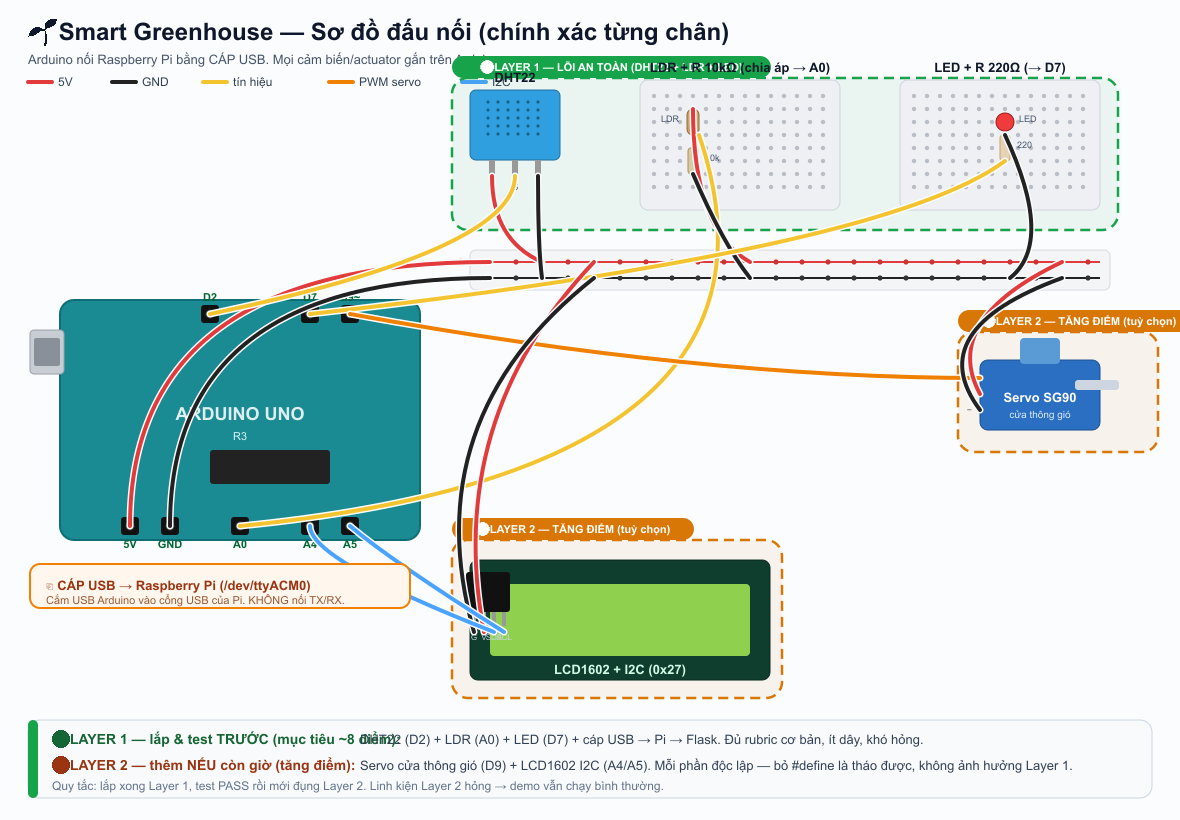
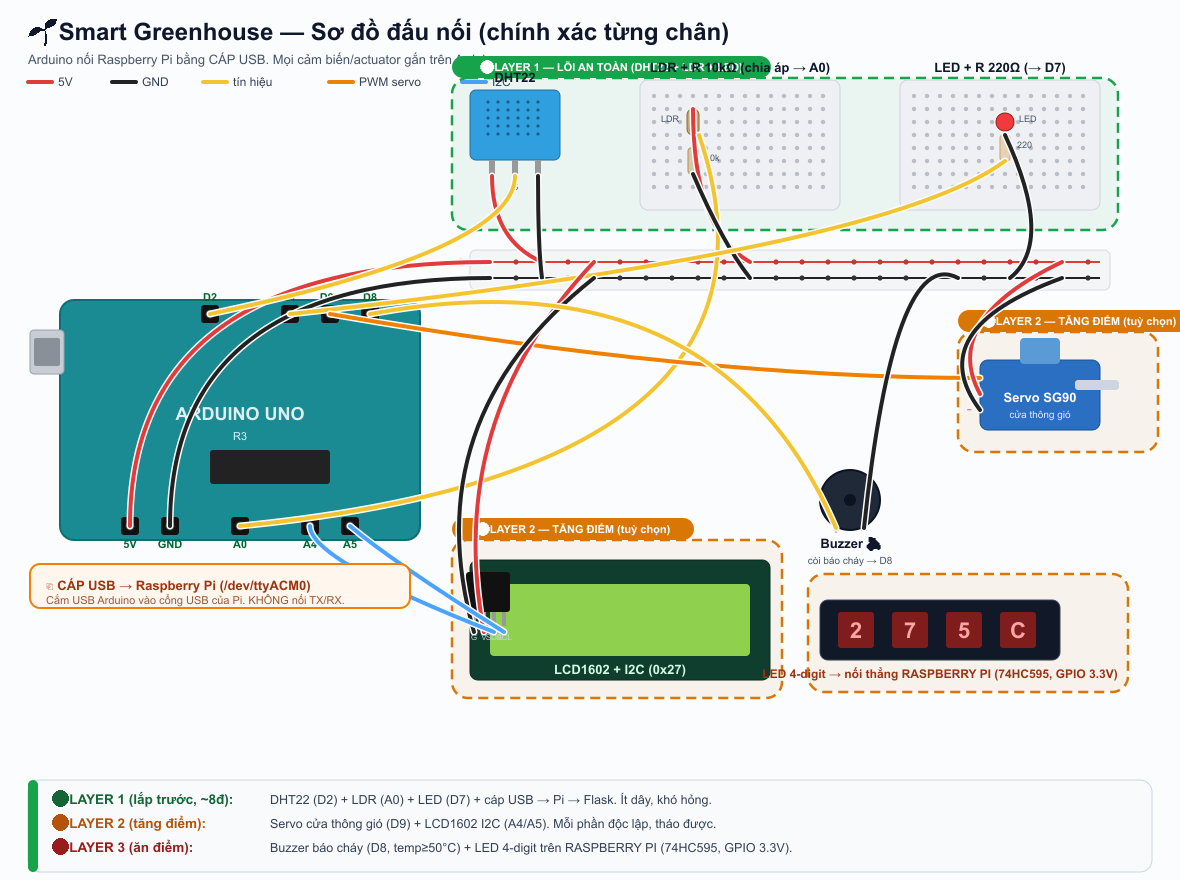
Document Layer 3 everywhere: buzzer+fire+4-digit in breadboard SVG, interactive page, WIRING, BUILD_CHECKLIST, hub + rubric update

diff --git a/docs/index.html b/docs/index.html
@@ -79,6 +79,7 @@
     padding:6px 14px;border-radius:999px;margin:18px 0 12px}
   .l1{background:#10b98122;color:var(--green);border:1px solid #10b98144}
   .l2{background:#fbbf2422;color:var(--amber);border:1px solid #fbbf2444}
+  .l3{background:#dc262622;color:#f87171;border:1px solid #dc262644}
 
   /* run code */
   pre{background:#060a12;border:1px solid var(--stroke);border-radius:12px;padding:16px;overflow-x:auto;
@@ -140,7 +141,8 @@
   <p class="lead">Mô phỏng một nhà kính tự động: cảm biến đo môi trường → tự bật đèn khi tối, mở cửa khi nóng → hiển thị & điều khiển trên dashboard web.</p>
   <div class="grid3">
     <div class="card"><div style="font-size:30px">📡</div><h3 style="margin:8px 0 4px">Thu thập</h3><p style="color:var(--muted);font-size:14px">DHT22 đo nhiệt/ẩm, LDR đo ánh sáng — đọc liên tục mỗi giây.</p></div>
-    <div class="card"><div style="font-size:30px">🤖</div><h3 style="margin:8px 0 4px">Tự động</h3><p style="color:var(--muted);font-size:14px">Tối → bật đèn trồng cây. Nóng → mở cửa thông gió (servo). Có chế độ Auto/Manual.</p></div>
+    <div class="card"><div style="font-size:30px">🤖</div><h3 style="margin:8px 0 4px">Tự động</h3><p style="color:var(--muted);font-size:14px">Tối → bật đèn trồng cây. Nóng → mở cửa thông gió. Có chế độ Auto/Manual.</p></div>
+    <div class="card" style="border-color:#dc262644"><div style="font-size:30px">🔥</div><h3 style="margin:8px 0 4px">Bảo vệ chống cháy</h3><p style="color:var(--muted);font-size:14px">Quá nhiệt (≥50°C) → còi báo động + mở cửa thoát nhiệt + cảnh báo đỏ. Không chỉ giám sát — còn bảo vệ tài sản.</p></div>
     <div class="card"><div style="font-size:30px">📊</div><h3 style="margin:8px 0 4px">Giám sát</h3><p style="color:var(--muted);font-size:14px">Dashboard web: số liệu realtime, biểu đồ lịch sử, điều khiển từ xa, lưu SQLite.</p></div>
   </div>
 </div></section>
@@ -171,6 +173,8 @@
     <div class="comp"><span class="em">💡</span><div><div class="t">LED + R220Ω <span class="pin">→ D7</span></div><div class="d">Đèn trồng cây · chân dài qua trở→D7, ngắn→GND</div></div></div>
     <div class="comp"><span class="em">🪟</span><div><div class="t">Servo SG90 <span class="pin">→ D9</span><span class="opt">TUỲ CHỌN</span></div><div class="d">Cửa thông gió · Đỏ→5V, Cam→D9, Nâu→GND</div></div></div>
     <div class="comp"><span class="em">📟</span><div><div class="t">LCD1602 I2C <span class="pin">→ A4/A5</span><span class="opt">TUỲ CHỌN</span></div><div class="d">Màn local · SDA→A4, SCL→A5, địa chỉ 0x27</div></div></div>
+    <div class="comp"><span class="em">🔊</span><div><div class="t">Buzzer báo cháy <span class="pin">→ D8</span><span class="opt" style="color:#f87171;border-color:#f8717155">LAYER 3</span></div><div class="d">Còi kêu khi temp ≥ 50°C · + → D8, − → GND</div></div></div>
+    <div class="comp"><span class="em">🔢</span><div><div class="t">LED 4-digit <span class="pin">→ Pi GPIO</span><span class="opt" style="color:#f87171;border-color:#f8717155">LAYER 3</span></div><div class="d">Trên Raspberry Pi · 74HC595 BCM 17/27/22 (3.3V)</div></div></div>
     <div class="comp"><span class="em">🔗</span><div><div class="t">Arduino → Pi <span class="pin">CÁP USB</span></div><div class="d">Cắm USB vào Pi, đọc /dev/ttyACM0 · KHÔNG dùng TX/RX</div></div></div>
   </div>
 </div></section>
@@ -194,6 +198,12 @@
     <li><div><div class="t">Servo cửa thông gió → D9</div><div class="pass">Nếu giật/reset → cấp nguồn riêng hoặc bỏ #define USE_SERVO</div></div></li>
     <li><div><div class="t">LCD1602 I2C → A4/A5</div><div class="pass">Màn trắng → vặn contrast / đổi 0x27→0x3F / bỏ #define USE_LCD</div></div></li>
     <li><div><div class="t">Bonus phần mềm (đã có sẵn)</div><div class="pass">Quay demo Auto↔Manual + chỉnh ngưỡng trên web</div></div></li>
+  </ol>
+
+  <div class="layerhead l3">🔴 LAYER 3 — Tính năng "ăn điểm"</div>
+  <ol class="steps">
+    <li><div><div class="t">🔥 Buzzer + chống cháy/quá nhiệt → D8 (Arduino)</div><div class="pass">temp ≥ 50°C → còi kêu + cửa tự mở + dashboard banner đỏ. Demo: hơ bật lửa gần DHT22.</div></div></li>
+    <li><div><div class="t">🔢 LED 4-digit trên Raspberry Pi (74HC595, GPIO 3.3V)</div><div class="pass">Pi tự hiển thị nhiệt độ; cháy → nhấp nháy "FirE". Đúng rubric cột Pi mức 9–10.</div></div></li>
   </ol>
   <p class="lead" style="margin-top:16px">Chi tiết đầy đủ: <a href="https://github.com/bnqtoan/smart-greenhouse-iot/blob/main/docs/BUILD_CHECKLIST.md" style="color:var(--green);font-weight:700">BUILD_CHECKLIST.md →</a></p>
 </div></section>
@@ -228,11 +238,11 @@ python3 app.py</pre>
     <tr><th>Tiêu chí</th><th>Mức 9–10</th><th>Đã đạt</th></tr>
     <tr><td>Arduino</td><td>≥2 cảm biến + LCD + actuator</td><td class="ok">DHT22 + LDR + LCD + LED + Servo ✓</td></tr>
     <tr><td>Giao tiếp</td><td>Serial ổn định</td><td class="ok">USB Serial /dev/ttyACM0 ✓</td></tr>
-    <tr><td>Raspberry Pi</td><td>Flask dashboard + điều khiển</td><td class="ok">✓</td></tr>
+    <tr><td>Raspberry Pi</td><td>Flask + điều khiển + <b>LED 4 digit</b></td><td class="ok">Flask + control + LED 4-digit (Pi) ✓</td></tr>
     <tr><td>Lưu dữ liệu</td><td>SQLite</td><td class="ok">✓</td></tr>
     <tr><td>Dashboard</td><td>hiện tại + lịch sử + chart</td><td class="ok">✓</td></tr>
     <tr><td>Điều khiển GUI</td><td>bắt buộc</td><td class="ok">LED/Vent/Mode/Ngưỡng ✓</td></tr>
-    <tr><td>Bonus</td><td>UI đẹp + chart + sáng tạo</td><td class="ok">+0.75 ✓</td></tr>
+    <tr><td>Bonus</td><td>UI đẹp + chart + sáng tạo</td><td class="ok">+ chống cháy/quá nhiệt 🔥 ✓</td></tr>
   </table>
   </div>
 </div></section>

diff --git a/docs/wiring.html b/docs/wiring.html
@@ -67,6 +67,8 @@
         <g class="node" data-pin="D9"><rect x="160" y="150" width="34" height="20" rx="4" fill="#1e293b"/><text x="177" y="164" text-anchor="middle" fill="#fff" font-size="10" font-weight="700">D9</text></g>
         <!-- D2 -->
         <g class="node" data-pin="D2"><rect x="160" y="180" width="34" height="20" rx="4" fill="#1e293b"/><text x="177" y="194" text-anchor="middle" fill="#fff" font-size="10" font-weight="700">D2</text></g>
+        <!-- D8 -->
+        <g class="node" data-pin="D8"><rect x="160" y="210" width="34" height="20" rx="4" fill="#1e293b"/><text x="177" y="224" text-anchor="middle" fill="#fff" font-size="10" font-weight="700">D8</text></g>
         <!-- 5V -->
         <g class="node" data-pin="5V"><rect x="6" y="250" width="34" height="20" rx="4" fill="#b91c1c"/><text x="23" y="264" text-anchor="middle" fill="#fff" font-size="10" font-weight="700">5V</text></g>
         <!-- GND -->
@@ -84,8 +86,12 @@
         <g class="node" data-comp="led"><rect x="430" y="186" width="180" height="46" rx="8" fill="#ca8a0433" stroke="#eab308"/><text x="520" y="208" text-anchor="middle" fill="#fef9c3" font-size="12" font-weight="700">LED + R220Ω</text><text x="520" y="224" text-anchor="middle" fill="#fde68a" font-size="10">đèn trồng cây → D7</text></g>
         <g class="node" data-comp="servo"><rect x="430" y="244" width="180" height="46" rx="8" fill="#16a34a33" stroke="#22c55e"/><text x="520" y="266" text-anchor="middle" fill="#dcfce7" font-size="12" font-weight="700">Servo SG90 ⚙</text><text x="520" y="282" text-anchor="middle" fill="#86efac" font-size="10">cửa thông gió → D9</text></g>
         <g class="node" data-comp="lcd"><rect x="430" y="302" width="180" height="46" rx="8" fill="#0284c733" stroke="#38bdf8"/><text x="520" y="324" text-anchor="middle" fill="#e0f2fe" font-size="12" font-weight="700">LCD1602 I2C ⚙</text><text x="520" y="340" text-anchor="middle" fill="#7dd3fc" font-size="10">SDA→A4, SCL→A5</text></g>
+        <g class="node" data-comp="buzzer"><rect x="430" y="360" width="180" height="46" rx="8" fill="#dc262633" stroke="#f87171"/><text x="520" y="382" text-anchor="middle" fill="#fee2e2" font-size="12" font-weight="700">Buzzer 🔊 🔥</text><text x="520" y="398" text-anchor="middle" fill="#fca5a5" font-size="10">còi báo cháy → D8</text></g>
 
         <!-- WIRES (data-comp groups them) -->
+        <!-- Buzzer: + -> D8, - -> GND -->
+        <path class="wire buzzer" d="M430 376 C 300 376, 240 220, 194 220" stroke="#eab308" fill="none" stroke-width="3"/>
+        <path class="wire buzzer" d="M430 392 C 300 392, 120 288, 40 288" stroke="#0f172a" fill="none" stroke-width="3"/>
         <!-- DHT -->
         <path class="wire dht" d="M430 84 C 300 84, 120 260, 40 260" stroke="#ef4444" fill="none" stroke-width="3"/>
         <path class="wire dht" d="M430 92 C 320 110, 240 190, 194 190" stroke="#eab308" fill="none" stroke-width="3"/>
@@ -128,6 +134,8 @@
       <button class="comp-btn" data-comp="led"><span class="em">💡</span><span><span class="t">LED</span><br><span class="d">đèn trồng cây</span></span></button>
       <button class="comp-btn" data-comp="servo"><span class="em">🪟</span><span><span class="t">Servo SG90</span><br><span class="d">cửa thông gió</span></span><span class="opt-badge">TUỲ CHỌN</span></button>
       <button class="comp-btn" data-comp="lcd"><span class="em">📟</span><span><span class="t">LCD1602 I2C</span><br><span class="d">màn hình local</span></span><span class="opt-badge">TUỲ CHỌN</span></button>
+      <button class="comp-btn" data-comp="buzzer"><span class="em">🔊</span><span><span class="t">Buzzer báo cháy</span><br><span class="d">còi cảnh báo cháy/quá nhiệt</span></span><span class="opt-badge" style="color:#f87171;border-color:#f8717155">LAYER 3</span></button>
+      <button class="comp-btn" data-comp="seg"><span class="em">🔢</span><span><span class="t">LED 4-digit</span><br><span class="d">trên Raspberry Pi (không qua Arduino)</span></span><span class="opt-badge" style="color:#f87171;border-color:#f8717155">LAYER 3</span></button>
 
       <div class="detail" id="detail">
         <h3>Chọn một linh kiện</h3>
@@ -143,7 +151,9 @@ const DATA = {
   ldr:  {name:"LDR + R10k", wires:[["#ef4444","5V → đầu LDR"],["#eab308","Điểm giữa → A0"],["#0f172a","R10k → GND"]], note:"Cầu chia áp: 5V—[LDR]—•(A0)—[10kΩ]—GND. Che/rọi đèn để chỉnh ngưỡng (mặc định 400)."},
   led:  {name:"LED + R220Ω", wires:[["#eab308","Chân dài (+) qua trở 220Ω → D7"],["#0f172a","Chân ngắn (–) → GND"]], note:"Gõ LED:1 / LED:0 trong Serial Monitor để test bật/tắt."},
   servo:{name:"Servo SG90 (tuỳ chọn)", wires:[["#ef4444","Đỏ → 5V"],["#f97316","Cam → D9 (PWM)"],["#0f172a","Nâu → GND"]], note:"Nếu giật/reset Arduino: cấp nguồn riêng cho servo, hoặc bỏ #define USE_SERVO."},
-  lcd:  {name:"LCD1602 I2C (tuỳ chọn)", wires:[["#ef4444","VCC → 5V"],["#0f172a","GND → GND"],["#a78bfa","SDA → A4"],["#a78bfa","SCL → A5"]], note:"Màn trắng không chữ → vặn contrast / đổi địa chỉ 0x27→0x3F / bỏ #define USE_LCD."}
+  lcd:  {name:"LCD1602 I2C (tuỳ chọn)", wires:[["#ef4444","VCC → 5V"],["#0f172a","GND → GND"],["#a78bfa","SDA → A4"],["#a78bfa","SCL → A5"]], note:"Màn trắng không chữ → vặn contrast / đổi địa chỉ 0x27→0x3F / bỏ #define USE_LCD."},
+  buzzer:{name:"Buzzer báo cháy (Layer 3)", wires:[["#eab308","+ → D8"],["#0f172a","− → GND"]], note:"Active buzzer. Code tự kêu khi temp ≥ 50°C (báo cháy/quá nhiệt) + mở cửa thông gió. Test: hơ bật lửa gần DHT22."},
+  seg:  {name:"LED 4-digit (trên Raspberry Pi)", wires:[["#eab308","DS → GPIO17"],["#eab308","STCP → GPIO27"],["#eab308","SHCP → GPIO22"],["#ef4444","VCC → 3.3V"],["#0f172a","GND → GND"]], note:"⚠️ Lắp trên breadboard riêng nối THẲNG vào Raspberry Pi (không qua Arduino). 74HC595 cấp 3.3V — không hạ áp. Pi tự đẩy nhiệt độ ra LED; cháy thì nhấp nháy 'FirE'. Đây là điểm rubric cột Pi mức 9–10."}
 };
 const svg = document.getElementById('svg');
 const detail = document.getElementById('detail');

diff --git a/docs/gen_breadboard.py b/docs/gen_breadboard.py
@@ -17,7 +17,7 @@ Pin map (matches greenhouse.ino):
 Run:  python3 gen_breadboard.py  ->  writes wiring-breadboard.svg
 """
 
-W, H = 1180, 820
+W, H = 1180, 880
 parts = []
 def add(s): parts.append(s)
 
@@ -105,8 +105,9 @@ def header_pin(x,y,label,side="top"):
         add(f'<text x="{x}" y="{y+22}" text-anchor="middle" font-size="11" font-weight="700" fill="#063">{label}</text>')
 
 # digital pins along top edge
-D7  = (AX+250, top_y); header_pin(*D7,"D7")
-D9  = (AX+290, top_y); header_pin(*D9,"D9~")
+D7  = (AX+230, top_y); header_pin(*D7,"D7")
+D9  = (AX+270, top_y); header_pin(*D9,"D9~")
+D8  = (AX+310, top_y); header_pin(*D8,"D8")
 D2  = (AX+150, top_y); header_pin(*D2,"D2")
 # power+analog along bottom edge
 bot_y = AY+AH-14
@@ -251,6 +252,32 @@ wire(lcd_sda[0], lcd_sda[1]+14, A4[0], A4[1], BLU, mid=(A4[0], 560))
 wire(lcd_scl[0], lcd_scl[1]+14, A5[0], A5[1], BLU, mid=(A5[0]+40, 560))
 
 # =========================================================
+#  COMPONENT: Buzzer (Layer 3 — fire alarm)  on Arduino D8
+# =========================================================
+BZX, BZY = 820, 470
+add(f'<circle cx="{BZX+30}" cy="{BZY+30}" r="30" fill="#1f2937" stroke="#0b1220" stroke-width="2"/>')
+add(f'<circle cx="{BZX+30}" cy="{BZY+30}" r="6" fill="#0b1220"/>')
+add(f'<text x="{BZX+30}" y="{BZY+78}" text-anchor="middle" font-size="13" font-weight="800" fill="#0f172a">Buzzer 🔊</text>')
+add(f'<text x="{BZX+30}" y="{BZY+94}" text-anchor="middle" font-size="10" fill="#475569">còi báo cháy → D8</text>')
+bz_pos=(BZX+16, BZY+58); bz_neg=(BZX+44, BZY+58)
+add(f'<text x="{bz_pos[0]}" y="{bz_pos[1]+6}" text-anchor="middle" font-size="10" fill="#b91c1c">+</text>')
+add(f'<text x="{bz_neg[0]}" y="{bz_neg[1]+6}" text-anchor="middle" font-size="10" fill="#111">−</text>')
+# wires: + -> D8, - -> GND rail
+wire(bz_pos[0], bz_pos[1], D8[0], D8[1], YEL, mid=(bz_pos[0]-120, 250))
+wire(bz_neg[0], bz_neg[1], Pg(18)[0], Pg(18)[1], BLK, mid=(bz_neg[0]+30, RAILY-6))
+
+# =========================================================
+#  PI 4-DIGIT callout (Layer 3 — lives on the Raspberry Pi, not Arduino)
+# =========================================================
+PDX, PDY = 820, 600
+zone(PDX-12, PDY-26, 320, 118, L2, "#d9770612")  # reuse amber-ish zone style
+add(f'<rect x="{PDX}" y="{PDY}" width="240" height="60" rx="8" fill="#111827" stroke="#374151"/>')
+for i in range(4):
+    add(f'<rect x="{PDX+18+i*54}" y="{PDY+12}" width="36" height="36" rx="3" fill="#7f1d1d"/>')
+    add(f'<text x="{PDX+36+i*54}" y="{PDY+38}" text-anchor="middle" font-size="22" font-weight="800" fill="#fca5a5">{["2","7","5","C"][i]}</text>')
+add(f'<text x="{PDX+120}" y="{PDY+78}" text-anchor="middle" font-size="12" font-weight="800" fill="#9a3412">LED 4-digit → nối thẳng RASPBERRY PI (74HC595, GPIO 3.3V)</text>')
+
+# =========================================================
 #  USB-to-Pi callout
 # =========================================================
 add(f'<rect x="{AX-30}" y="{AY+AH+24}" width="380" height="44" rx="10" fill="#fff7ed" stroke="{ORN}" stroke-width="2"/>')
@@ -258,14 +285,15 @@ add(f'<text x="{AX-14}" y="{AY+AH+50}" font-size="13" font-weight="800" fill="#9
 add(f'<text x="{AX-14}" y="{AY+AH+64}" font-size="11" fill="#9a5a36">Cắm USB Arduino vào cổng USB của Pi. KHÔNG nối TX/RX.</text>')
 
 # ---------- two-layer strategy note ----------
-NY = 720
-add(f'<rect x="28" y="{NY}" width="1124" height="78" rx="12" fill="#f8fafc" stroke="#cbd5e1"/>')
-add(f'<rect x="28" y="{NY}" width="10" height="78" rx="5" fill="{L1}"/>')
-add(f'<text x="52" y="{NY+24}" font-size="14" font-weight="800" fill="#166534">🟢 LAYER 1 — lắp &amp; test TRƯỚC (mục tiêu ~8 điểm):</text>')
-add(f'<text x="360" y="{NY+24}" font-size="13" fill="#334155">DHT22 (D2) + LDR (A0) + LED (D7) + cáp USB → Pi → Flask. Đủ rubric cơ bản, ít dây, khó hỏng.</text>')
-add(f'<text x="52" y="{NY+50}" font-size="14" font-weight="800" fill="#9a3412">🟡 LAYER 2 — thêm NẾU còn giờ (tăng điểm):</text>')
-add(f'<text x="360" y="{NY+50}" font-size="13" fill="#334155">Servo cửa thông gió (D9) + LCD1602 I2C (A4/A5). Mỗi phần độc lập — bỏ #define là tháo được, không ảnh hưởng Layer 1.</text>')
-add(f'<text x="52" y="{NY+70}" font-size="12" fill="#64748b">Quy tắc: lắp xong Layer 1, test PASS rồi mới đụng Layer 2. Linh kiện Layer 2 hỏng → demo vẫn chạy bình thường.</text>')
+NY = 780
+add(f'<rect x="28" y="{NY}" width="1124" height="92" rx="12" fill="#f8fafc" stroke="#cbd5e1"/>')
+add(f'<rect x="28" y="{NY}" width="10" height="92" rx="5" fill="{L1}"/>')
+add(f'<text x="52" y="{NY+24}" font-size="13.5" font-weight="800" fill="#166534">🟢 LAYER 1 (lắp trước, ~8đ):</text>')
+add(f'<text x="270" y="{NY+24}" font-size="12.5" fill="#334155">DHT22 (D2) + LDR (A0) + LED (D7) + cáp USB → Pi → Flask. Ít dây, khó hỏng.</text>')
+add(f'<text x="52" y="{NY+48}" font-size="13.5" font-weight="800" fill="#b45309">🟡 LAYER 2 (tăng điểm):</text>')
+add(f'<text x="270" y="{NY+48}" font-size="12.5" fill="#334155">Servo cửa thông gió (D9) + LCD1602 I2C (A4/A5). Mỗi phần độc lập, tháo được.</text>')
+add(f'<text x="52" y="{NY+72}" font-size="13.5" font-weight="800" fill="#991b1b">🔴 LAYER 3 (ăn điểm):</text>')
+add(f'<text x="270" y="{NY+72}" font-size="12.5" fill="#334155">Buzzer báo cháy (D8, temp≥50°C) + LED 4-digit trên RASPBERRY PI (74HC595, GPIO 3.3V).</text>')
 
 add('</svg>')
 

diff --git a/docs/BUILD_CHECKLIST.md b/docs/BUILD_CHECKLIST.md
@@ -16,6 +16,8 @@
 | LED + 220Ω | **D7** | 🟢 Layer 1 |
 | Servo SG90 | **D9** | 🟡 Layer 2 |
 | LCD1602 I2C (0x27) | **A4=SDA, A5=SCL** | 🟡 Layer 2 |
+| Buzzer (còi báo cháy) | **D8** (trên Arduino) | 🔴 Layer 3 |
+| 4-digit 7-seg + 74HC595 | **trên RASPBERRY PI** GPIO BCM 17/27/22 (3.3V) | 🔴 Layer 3 |
 | Nguồn | 5V / GND | — |
 | Arduino → Pi | **CÁP USB** (/dev/ttyACM0) | — |
 
@@ -71,7 +73,27 @@
 - [ ] Chế độ Auto/Manual đã có sẵn trên dashboard → quay demo cảnh chuyển mode.
 - [ ] Chỉnh ngưỡng trên web → quay cảnh đổi ngưỡng làm đèn/cửa đổi trạng thái.
 
+## ===== LAYER 3 — TÍNH NĂNG "ĂN ĐIỂM" (chống cháy + LED 4 digit) =====
+
+### B9. Buzzer + cảnh báo cháy/quá nhiệt (trên Arduino)  ~5 phút
+- [ ] Buzzer (loại active): chân **+ → D8**, chân **− → GND**.
+- [ ] Logic đã có sẵn trong code: `temp ≥ 50°C` → buzzer kêu + servo tự mở cửa + cờ `fire` gửi lên Pi.
+- [ ] Test: hơ bật lửa/máy sấy gần DHT22 → nhiệt tăng → buzzer kêu + dashboard hiện **banner đỏ "CẢNH BÁO CHÁY"**.
+- [ ] Đổi ngưỡng cháy: gõ `TH_FIRE:45` trong Serial Monitor (mặc định 50).
+- [ ] 💡 Câu chuyện sản phẩm: "hệ thống không chỉ giám sát mà còn **bảo vệ tài sản** khỏi cháy/quá nhiệt".
+
+### B10. LED 4 digit trên Raspberry Pi (rubric: cột Pi mức 9–10)  ~15 phút
+> ⚠️ Phần này lắp trên **breadboard riêng nối thẳng vào GPIO của Raspberry Pi** (không qua Arduino).
+> Cấp nguồn 74HC595 bằng **3.3V của Pi** — KHÔNG cần hạ áp.
+- [ ] 74HC595: VCC(16)→3.3V, GND(8)→GND, MR(10)→3.3V, OE(13)→GND.
+- [ ] DS(14)→**GPIO17**, STCP(12)→**GPIO27**, SHCP(11)→**GPIO22** (đánh số BCM).
+- [ ] Q0..Q7 → 8 thanh LED (a..g, dp) qua trở 220–330Ω.
+- [ ] 4 chân chung của 4 digit → **GPIO23, 24, 25, 12**.
+- [ ] Trên Pi: `pip3 install RPi.GPIO` rồi chạy lại `app.py`.
+- [ ] PASS: LED 4 digit hiện nhiệt độ (vd `27.5`); khi cháy → nhấp nháy **"FirE"**.
+- [ ] ⚠️ Nếu không có RPi.GPIO / chưa lắp → app vẫn chạy bình thường, chỉ là không có LED.
+
 ## DỰ PHÒNG KHI DEMO (đừng hoảng)
-- Arduino không nhận? Dashboard tự chuyển **"Demo · Simulated"** → vẫn trình bày được chart + điều khiển, không sập.
-- Sai cổng serial → sửa `SERIAL_PORT`.
-- Một module hỏng → tháo `#define` tương ứng, nạp lại, phần còn lại vẫn chạy.
+- Arduino chưa cắm? Dashboard hiện **"Chưa kết nối Arduino"** (không có dữ liệu giả), tự nối lại khi cắm Arduino.
+- Sai cổng serial → sửa `SERIAL_PORT` trong `app.py`.
+- Module hỏng (servo/LCD/buzzer/4-digit) → tháo ra hoặc bỏ `#define`/không cài RPi.GPIO; phần còn lại vẫn chạy.

diff --git a/docs/WIRING.md b/docs/WIRING.md
@@ -33,9 +33,26 @@ flowchart LR
 | DHT22 — DATA | D2 | VCC→5V, GND→GND. (module DHT22 thường có trở kéo sẵn) |
 | LDR | A0 | Chia áp: 5V — LDR — A0 — R10kΩ — GND |
 | LED grow-light | D7 | Nối tiếp trở 220Ω, chân dài (+) về D7, chân ngắn về GND |
-| Servo SG90 *(opt)* | D9 (PWM) | Đỏ→5V, Nâu→GND, Cam→D9 |
-| LCD1602 I2C *(opt)* | A4=SDA, A5=SCL | VCC→5V, GND→GND, địa chỉ 0x27 (nếu trắng màn → đổi 0x3F) |
+| Servo SG90 *(L2)* | D9 (PWM) | Đỏ→5V, Nâu→GND, Cam→D9 |
+| LCD1602 I2C *(L2)* | A4=SDA, A5=SCL | VCC→5V, GND→GND, địa chỉ 0x27 (nếu trắng màn → đổi 0x3F) |
+| Buzzer báo cháy *(L3)* | D8 | Active buzzer: + → D8, − → GND. Kêu khi `temp ≥ 50°C` |
 | Arduino → Pi | **Cáp USB** | KHÔNG dùng TX/RX. Pi đọc /dev/ttyACM0 |
+
+### LED 4 digit — lắp trên RASPBERRY PI (Layer 3, không qua Arduino)
+Dùng 74HC595 + 4-digit 7-seg trên breadboard riêng, cấp **3.3V từ Pi** (không hạ áp).
+
+| 74HC595 | Pi (BCM) | Ghi chú |
+|---|---|---|
+| DS (14) | GPIO17 | data |
+| STCP (12) | GPIO27 | latch |
+| SHCP (11) | GPIO22 | clock |
+| VCC (16), MR (10) | 3.3V | |
+| GND (8), OE (13) | GND | OE→GND để bật output |
+| Q0..Q7 | a,b,c,d,e,f,g,dp | qua trở 220–330Ω |
+| 4 chân digit chung | GPIO23,24,25,12 | LOW = bật digit |
+
+Pi tự đẩy nhiệt độ ra LED 4 digit (hiện `27.5`); khi cháy nhấp nháy `FirE`.
+→ Đúng yêu cầu rubric cột **Raspberry Pi mức 9–10 ("LED 4 digit")**: chính Pi điều khiển hiển thị.
 
 ## Mạch chia áp LDR (chi tiết)
 ```